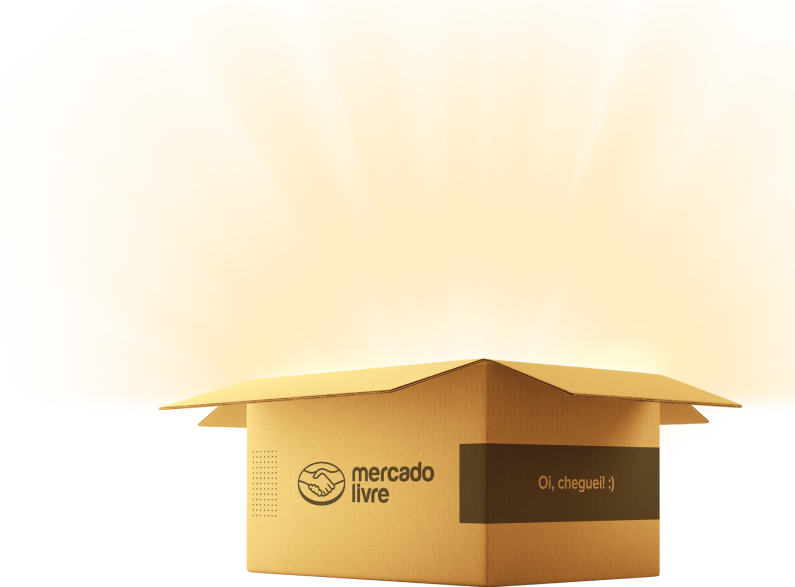
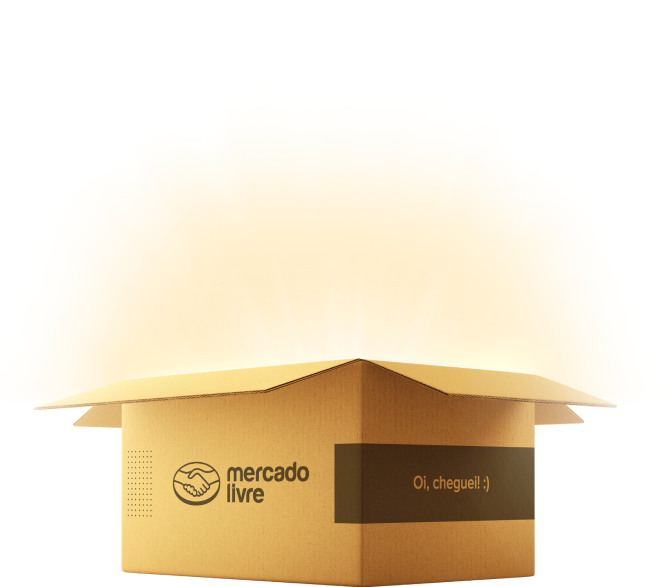
ajustes

diff --git a/index.html b/index.html
@@ -73,7 +73,7 @@
             </div>
             <!-- Second Column: Only one Image -->
             <div class="col-lg-5 d-flex flex-column justify-content-center mb-5">
-                <img data-aos="fade-in" class="img-fluid mb-5 img2" src="./images/MercadoLivre02_tst.png"
+                <img data-aos="fade-in" class="img-fluid mb-5 img2" src="./images/MercadoLivre02.png"
                     alt="Description of the second image">
             </div>
             <div class="col-lg-1"></div>
